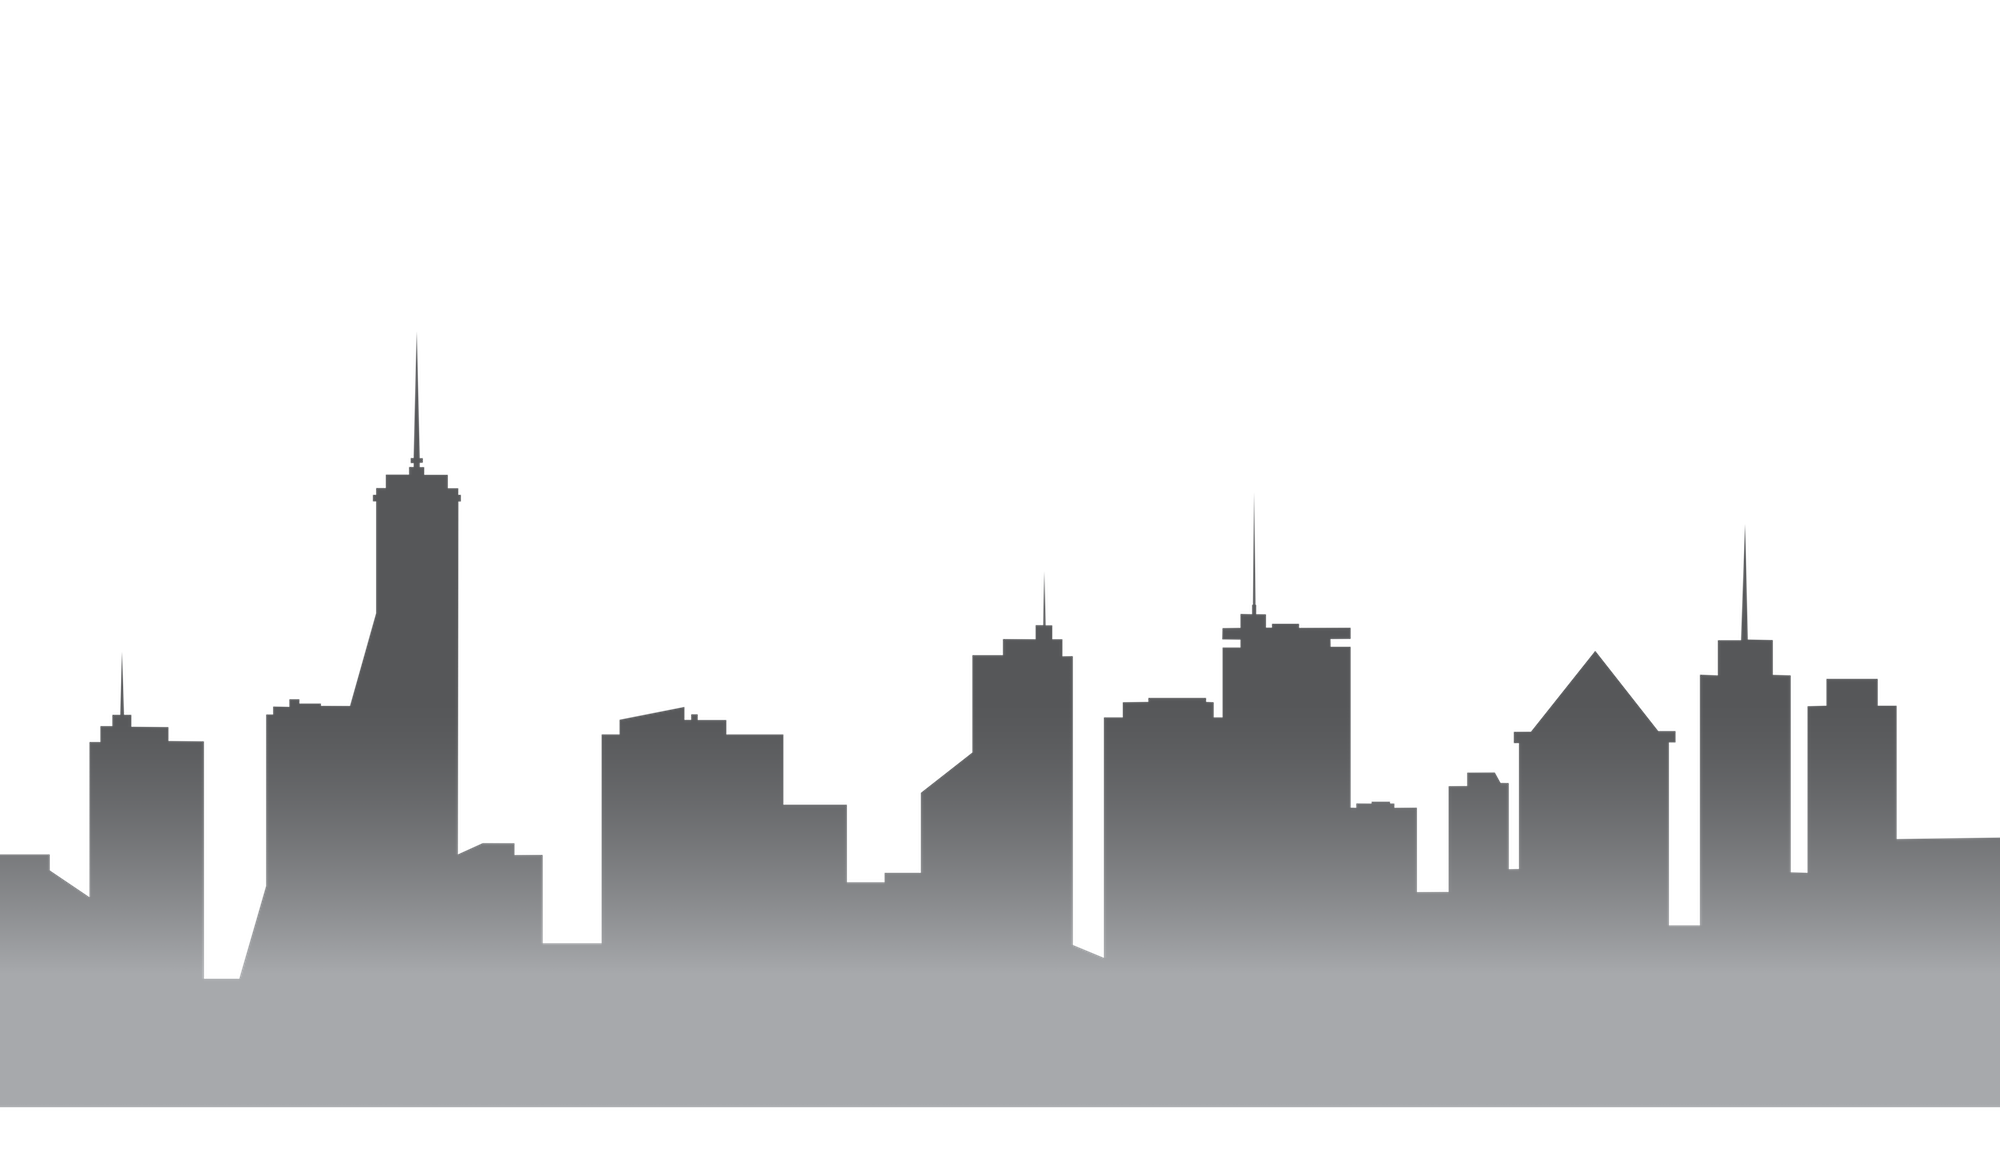
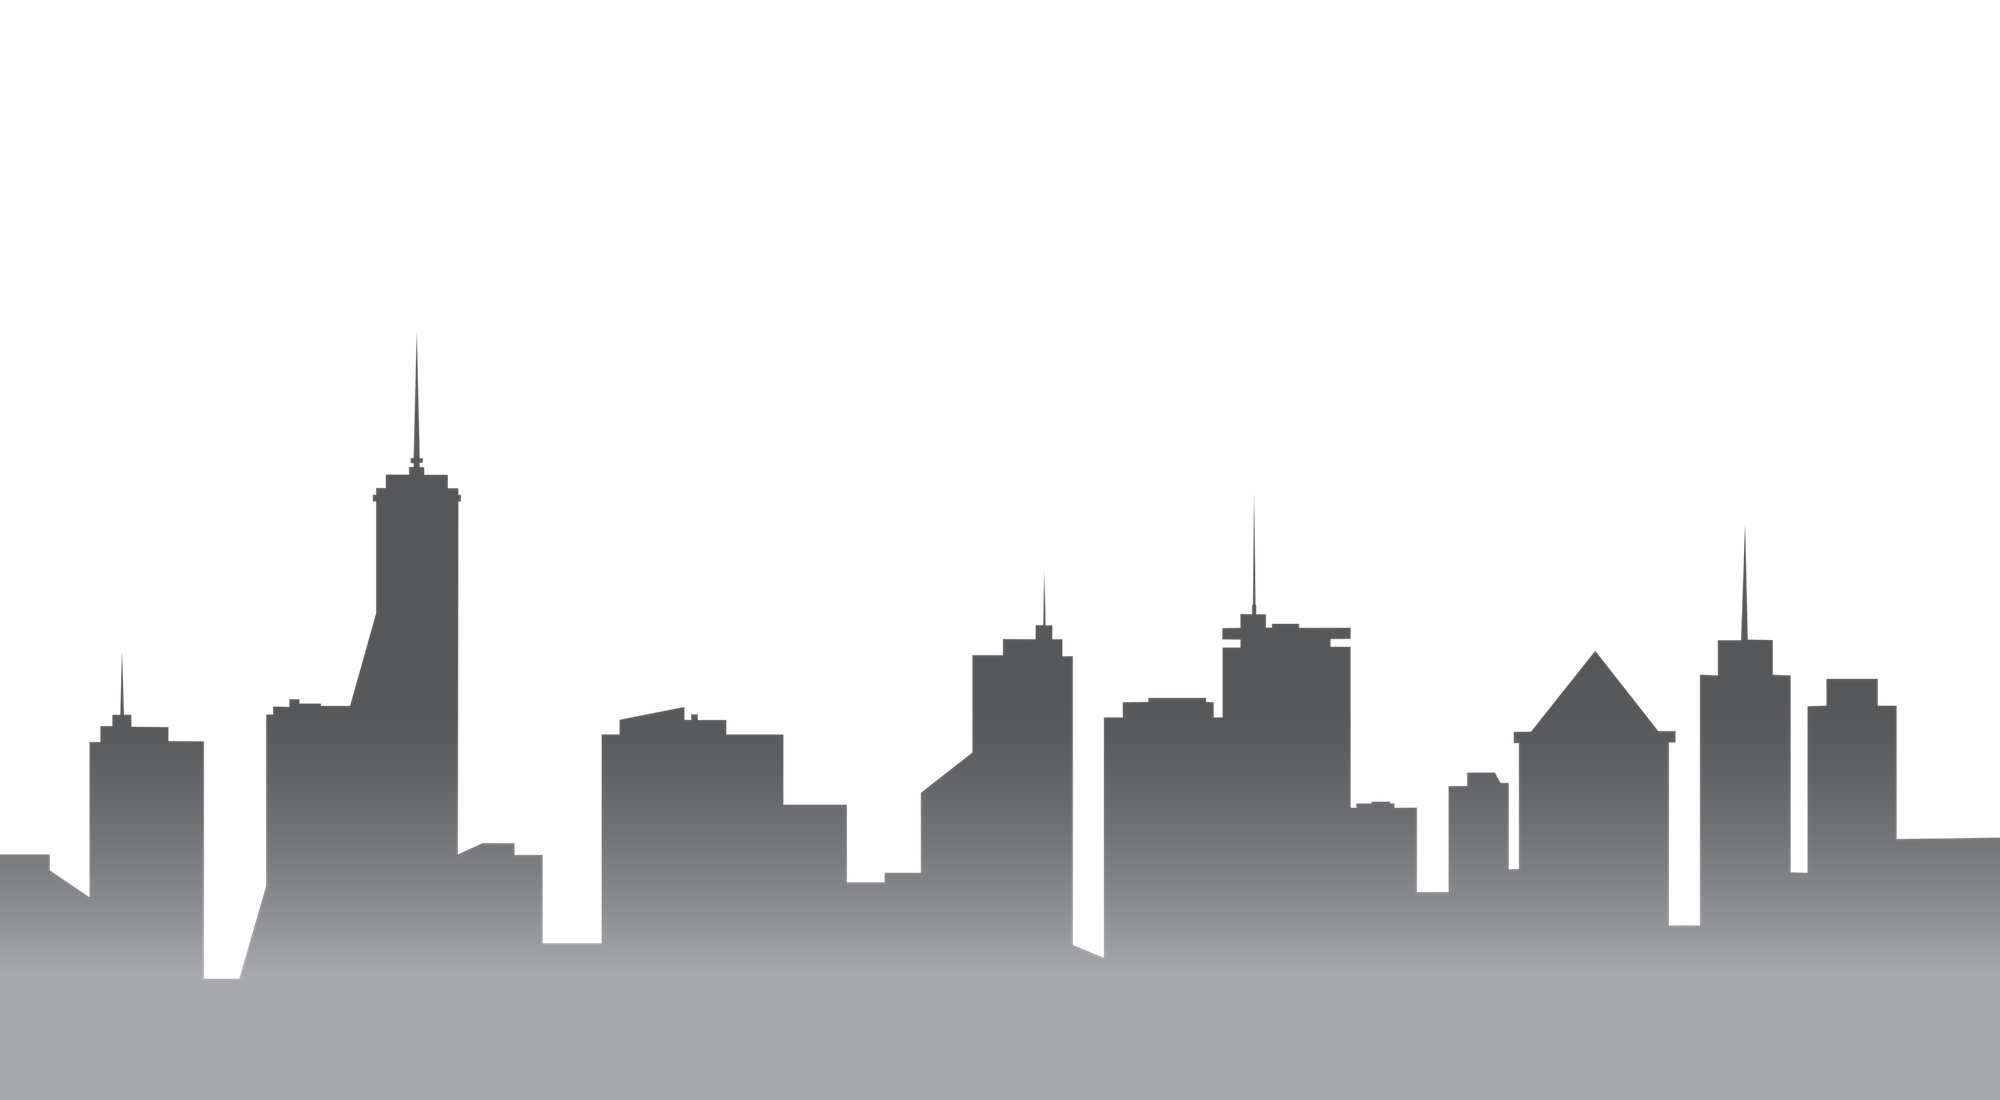
X parallax :3 and new BG

diff --git a/index.html b/index.html
@@ -14,21 +14,25 @@
 
 		<!-- Scene -->
 		<div id="scene">
-			<div class="layer layout">
+			 <div class="layer layout" data-depth="0.10">
 				<div class="header">
           <div class="logo camp_name"></div>
           <div class="logo camp_way"></div> 
           <div class="logo sponser"></div>
 				</div>
 			</div>
-			<div class="layer layout">
+			<div class="layer layout" data-depth="0.30">
 				<div class="town">
 					<div class="town-front"></div>
+				</div>
+			</div>
+			<div class="layer layout" data-depth="0.20" style="z-index:-1;">
+				<div class="town">
 					<div class="town-back"></div>
 				</div>
 			</div>
 			<div class="overlay"></div>
-			<div class="layer section">
+			<div class="layer section" data-depth="0.10">
 				<!-- What Sec -->
 				<div class="what sec left" data-sec="what">
 					<div class="emblem">
@@ -305,7 +309,7 @@
 		<!-- Javascript -->
 		<script src="assets/js/jquery.min.js"></script>
 		<script src="assets/js/tweenmax.js"></script>
-  	<!-- <script src="assets/js/jquery.parallax.min.js"></script> -->
+  	<script src="assets/js/jquery.parallax.min.js"></script> 
 		<script src="assets/js/script.js"></script>
 		
 

diff --git a/assets/css/style.css b/assets/css/style.css
@@ -85,7 +85,8 @@ p{
 /* ! Main Site */
 
 #scene {
-	background-image: url("../img/bg5.jpg");
+	background-image: url("../img/b3.jpg");
+  /*background-color: #03062B;*/
   background-position: 100% 100%;
   background-size: 100% 100%;
 	position: relative;
@@ -114,6 +115,7 @@ p{
 .overlay.active {
   visibility: visible;
   opacity: 1;
+  z-index: 88;
   transition-delay:0s;
 }
 
@@ -149,23 +151,25 @@ p{
 #scene .layout .town > div{
   position: absolute;
   bottom: 0;
-  width: 100%;
+  width: 120%;
+  left: -100px;
   background-size: contain;
   background-size: 100%;
+  background-repeat: no-repeat;
+  background-position: center bottom;
 
 }
 
 #scene .layout .town .town-front{
   background-image: url("../img/layout/townintown2-1.png");
-  background-position: bottom;
-  bottom: -15px;
+  bottom: -30px;
   z-index: 2;
   height: 600px;
 }
 #scene .layout .town .town-back{
   background-image: url("../img/layout/townintown2-2.png");
   z-index: 1;
-  height: 800px;
+  height: 600px;
 }
 
 /* 

diff --git a/assets/js/script.js b/assets/js/script.js
@@ -2,7 +2,9 @@
 
 $(document).ready(function(e){
   
-  // $('#scene').parallax();
+  $('#scene').parallax({
+    limitY: 1,
+  });
 
   // StartUP Preload
 
@@ -14,8 +16,8 @@ $(document).ready(function(e){
   TweenMax.from('.section .contact', 1,{css: {right: "44%", top: "39%", opacity: 0}, delay:3});
   TweenMax.from('.section .description', 1,{css: {opacity: 0}, delay:4.5});
 
-  TweenMax.from('.layout .town-front', 1.5,{css: {bottom: "-100%"}, delay:4});
-  TweenMax.from('.layout .town-back', 1.5,{css: {bottom: "-100%"}, delay:4.2});
+  TweenMax.from('.layout .town-front', 1,{css: {bottom: "-100%"}, delay:3.5, ease: Back.easeOut.config(.5)});
+  TweenMax.from('.layout .town-back', 1,{css: {bottom: "-100%"}, delay:3.8, ease: Back.easeOut.config(.5)});
 
 
   // Section
